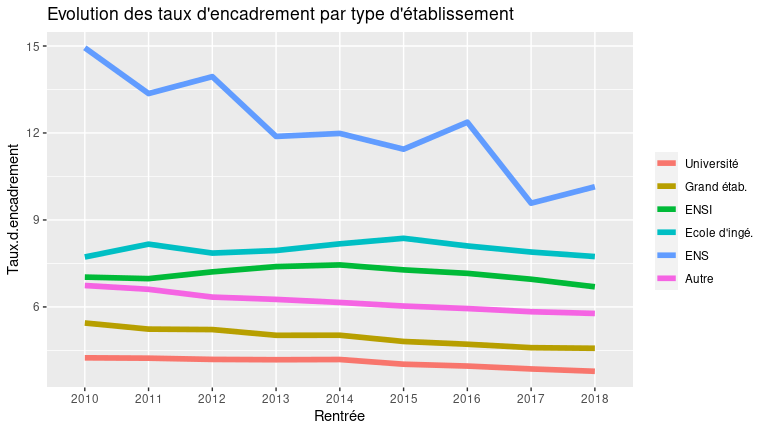
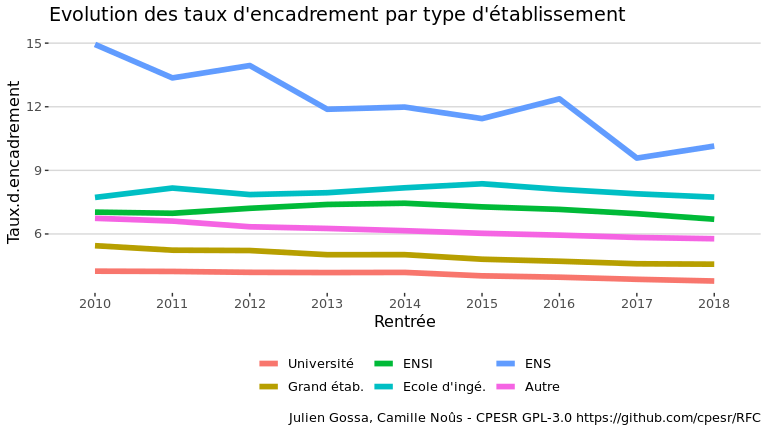
Fix d'un bug sur les taux d'encadrement

diff --git a/TauxDEncadrement/tauxdencadrement.md b/TauxDEncadrement/tauxdencadrement.md
@@ -51,104 +51,6 @@ issues](https://github.com/cpesr/RFC/issues).*
 
 ![](tauxdencadrement_files/figure-gfm/etab.globale-1.png)<!-- -->
 
-    ## [[1]]
-    ## List of 13
-    ##  $ rect              :List of 5
-    ##   ..$ fill         : chr "#FFFFFF"
-    ##   ..$ colour       : logi NA
-    ##   ..$ size         : NULL
-    ##   ..$ linetype     : num 0
-    ##   ..$ inherit.blank: logi FALSE
-    ##   ..- attr(*, "class")= chr [1:2] "element_rect" "element"
-    ##  $ text              :List of 11
-    ##   ..$ family       : chr "Raleway"
-    ##   ..$ face         : NULL
-    ##   ..$ colour       : NULL
-    ##   ..$ size         : num 12
-    ##   ..$ hjust        : NULL
-    ##   ..$ vjust        : NULL
-    ##   ..$ angle        : NULL
-    ##   ..$ lineheight   : NULL
-    ##   ..$ margin       : NULL
-    ##   ..$ debug        : NULL
-    ##   ..$ inherit.blank: logi FALSE
-    ##   ..- attr(*, "class")= chr [1:2] "element_text" "element"
-    ##  $ title             :List of 11
-    ##   ..$ family       : NULL
-    ##   ..$ face         : NULL
-    ##   ..$ colour       : NULL
-    ##   ..$ size         : NULL
-    ##   ..$ hjust        : num 0.5
-    ##   ..$ vjust        : NULL
-    ##   ..$ angle        : NULL
-    ##   ..$ lineheight   : NULL
-    ##   ..$ margin       : NULL
-    ##   ..$ debug        : NULL
-    ##   ..$ inherit.blank: logi FALSE
-    ##   ..- attr(*, "class")= chr [1:2] "element_text" "element"
-    ##  $ axis.title.x      :List of 11
-    ##   ..$ family       : NULL
-    ##   ..$ face         : NULL
-    ##   ..$ colour       : NULL
-    ##   ..$ size         : NULL
-    ##   ..$ hjust        : num 0.5
-    ##   ..$ vjust        : NULL
-    ##   ..$ angle        : NULL
-    ##   ..$ lineheight   : NULL
-    ##   ..$ margin       : NULL
-    ##   ..$ debug        : NULL
-    ##   ..$ inherit.blank: logi FALSE
-    ##   ..- attr(*, "class")= chr [1:2] "element_text" "element"
-    ##  $ axis.title.y      :List of 11
-    ##   ..$ family       : NULL
-    ##   ..$ face         : NULL
-    ##   ..$ colour       : NULL
-    ##   ..$ size         : NULL
-    ##   ..$ hjust        : num 0.5
-    ##   ..$ vjust        : NULL
-    ##   ..$ angle        : NULL
-    ##   ..$ lineheight   : NULL
-    ##   ..$ margin       : NULL
-    ##   ..$ debug        : NULL
-    ##   ..$ inherit.blank: logi FALSE
-    ##   ..- attr(*, "class")= chr [1:2] "element_text" "element"
-    ##  $ legend.key        :List of 5
-    ##   ..$ fill         : chr "#FFFFFF00"
-    ##   ..$ colour       : NULL
-    ##   ..$ size         : NULL
-    ##   ..$ linetype     : NULL
-    ##   ..$ inherit.blank: logi FALSE
-    ##   ..- attr(*, "class")= chr [1:2] "element_rect" "element"
-    ##  $ legend.position   : chr "bottom"
-    ##  $ panel.background  : list()
-    ##   ..- attr(*, "class")= chr [1:2] "element_blank" "element"
-    ##  $ panel.border      : list()
-    ##   ..- attr(*, "class")= chr [1:2] "element_blank" "element"
-    ##  $ panel.grid.major.x: list()
-    ##   ..- attr(*, "class")= chr [1:2] "element_blank" "element"
-    ##  $ panel.grid.major.y:List of 6
-    ##   ..$ colour       : chr "#D8D8D8"
-    ##   ..$ size         : NULL
-    ##   ..$ linetype     : NULL
-    ##   ..$ lineend      : NULL
-    ##   ..$ arrow        : logi FALSE
-    ##   ..$ inherit.blank: logi FALSE
-    ##   ..- attr(*, "class")= chr [1:2] "element_line" "element"
-    ##  $ panel.grid.minor.x: list()
-    ##   ..- attr(*, "class")= chr [1:2] "element_blank" "element"
-    ##  $ panel.grid.minor.y: list()
-    ##   ..- attr(*, "class")= chr [1:2] "element_blank" "element"
-    ##  - attr(*, "class")= chr [1:2] "theme" "gg"
-    ##  - attr(*, "complete")= logi FALSE
-    ##  - attr(*, "validate")= logi TRUE
-    ## 
-    ## [[2]]
-    ## $caption
-    ## [1] "Julien Gossa, Camille Noûs - CPESR GPL-3.0 https://github.com/cpesr/RFC"
-    ## 
-    ## attr(,"class")
-    ## [1] "labels"
-
 ### Distribution des établissements
 
     ## `summarise()` regrouping output by 'Rentrée', 'Type.établissement' (override with `.groups` argument)
